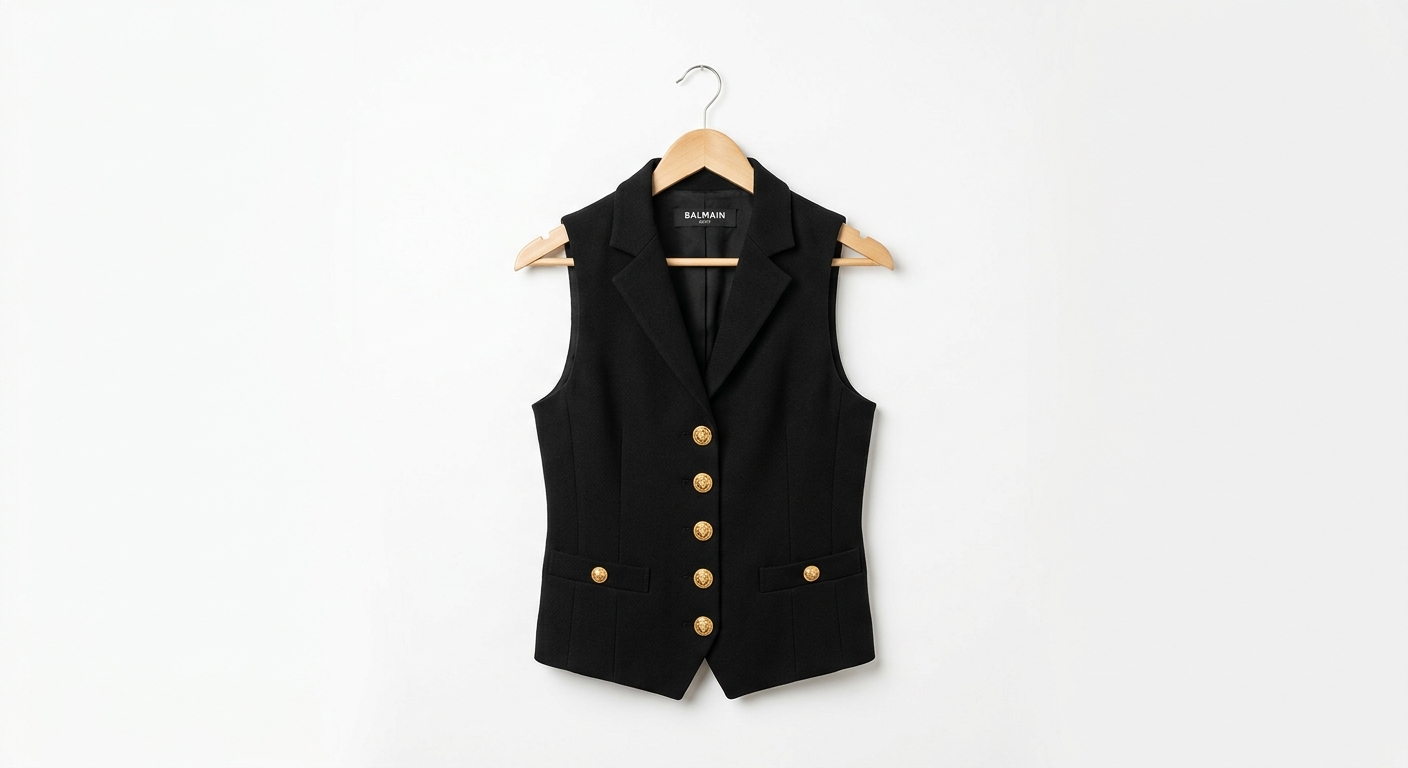
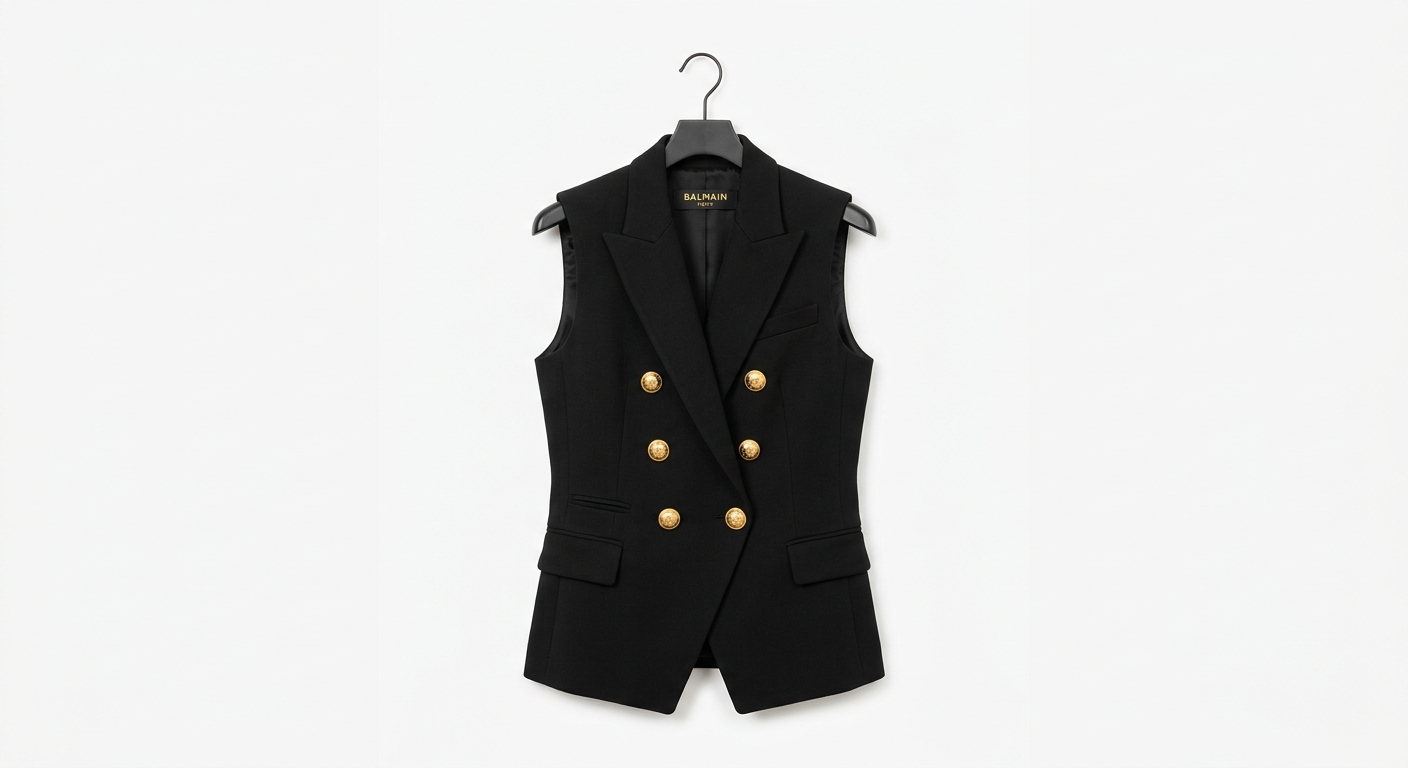
Hide image placeholders when no photo; fix fallback piece image
- Gen step (modal + page): hide image element entirely when no photo uploaded
- Result #yp-img: hidden when no photo and not fallback; fallback shows /images/balmain-waistcoat.jpg
- Updated balmain-waistcoat.jpg (awaiting correct product photo from user)

https://claude.ai/code/session_012yThWyHusL29qMZiRTCUVB

diff --git a/public/js/app.js b/public/js/app.js
@@ -306,7 +306,9 @@ const App = (function () {
   let fmStep = 0;
 
   function runGen() {
-    $('#gen-piece-img').src = st.photo || SAMPLE;
+    const gpImg = $('#gen-piece-img');
+    gpImg.src = st.photo || '';
+    gpImg.hidden = !st.photo;
     const who = st.name ? `${st.name}, styling` : 'Styling';
     const what = st.pieceName ? `your ${st.pieceName.toLowerCase()}` : 'your key piece';
     $('#gen-h').innerHTML = `${who}<br><em>${what}.</em>`;
@@ -409,8 +411,10 @@ const App = (function () {
       ? 'We didn\'t recognise your request, so we\'ve styled a Balmain waistcoat for you instead — here\'s how it could work across three very different occasions.'
       : 'Here are three different styling suggestions for your key piece, ranging from sharp tailoring to casual sophistication and high-glamour evening wear.';
 
-    const piecePhoto = st.fallback ? '/images/balmain-waistcoat.jpg' : (st.photo || SAMPLE);
-    $('#yp-img').src = piecePhoto;
+    const piecePhoto = st.fallback ? '/images/balmain-waistcoat.jpg' : (st.photo || null);
+    const ypImg = $('#yp-img');
+    ypImg.src = piecePhoto || '';
+    ypImg.hidden = !piecePhoto;
     $('#yp-name').textContent = st.pieceName || 'Your key piece';
 
     const host = $('#ways');
@@ -560,7 +564,7 @@ const App = (function () {
 
   function runGenModal() {
     const img = document.getElementById('fm-gen-img');
-    if (img) img.src = st.photo || SAMPLE;
+    if (img) { img.src = st.photo || ''; img.hidden = !st.photo; }
 
     const h = document.getElementById('fm-gen-h');
     if (h) {